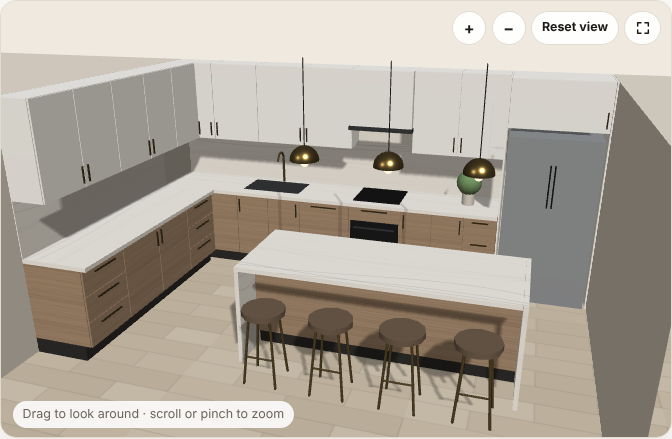
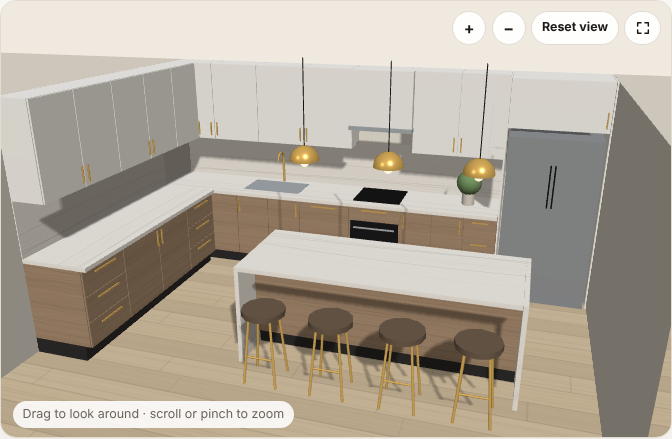
Designer: locked, dated quote snapshot link and full design details in the quote email; wall and floor colour choices (white tiles in laundry and vanity)
Claude-Session: https://claude.ai/code/session_01HEw6Y8Yuo87gmqRPwDFR2d

diff --git a/js/designer.js b/js/designer.js
@@ -51,20 +51,39 @@
     door: { flat: 'flat panel doors', shaker: 'shaker doors', fingerpull: 'fingerpull doors' },
     splash: { subway: 'white subway tile splashback', stone: 'matching stone splashback', glass: 'smoked glass splashback' }
   };
-  var lists = { cabinet: CABINET, bench: BENCH, handle: HANDLE };
+  /* room colours, so people can see the joinery against walls and floors like their own */
+  var WALLS = [
+    { val: 'warm-white', name: 'Warm white', fill: '#efe9e0' },
+    { val: 'white', name: 'Bright white', fill: '#f7f7f4' },
+    { val: 'greige', name: 'Greige', fill: '#d8cfc2' },
+    { val: 'sage', name: 'Soft sage', fill: '#c8cfbe' },
+    { val: 'blue', name: 'Pale blue', fill: '#cdd7dc' },
+    { val: 'charcoal', name: 'Charcoal', fill: '#55534f' },
+    { val: 'tile-white', name: 'White tiles', fill: '#f4f4f1', tile: true }
+  ];
+  var FLOORS = [
+    { val: 'oak-light', name: 'Light oak timber', fill: '#d8c3a2', kind: 'timber' },
+    { val: 'oak-mid', name: 'Mid oak timber', fill: '#b68c60', kind: 'timber' },
+    { val: 'walnut', name: 'Dark timber', fill: '#6f5038', kind: 'timber' },
+    { val: 'stone', name: 'Beige stone tiles', fill: '#d6c8b3', kind: 'tile' },
+    { val: 'tile-white', name: 'White tiles', fill: '#ecebe7', kind: 'tile' },
+    { val: 'tile-grey', name: 'Grey tiles', fill: '#b6b4af', kind: 'tile' },
+    { val: 'concrete', name: 'Polished concrete', fill: '#a9a7a2', kind: 'concrete' }
+  ];
+  var lists = { cabinet: CABINET, bench: BENCH, handle: HANDLE, wall: WALLS, floor: FLOORS };
 
   /* starting design follows what is most asked for in 2026: L-shape with an island, timber-look
      base cupboards with white overheads, flat doors, white stone benchtop and splashback */
   var ks = { shape: 'l', wall: 4.2, side: 2.4, bases: 0, island: 'on', islandLen: 2.4, pantry: 'off', fridge: 'on', dishwasher: 'on', overheads: 'full',
-    door: 'flat', base: 'p-prime-oak', upper: 'p-classic-white', bench: 'cs-empira-white', splash: 'stone', handle: 'brass' };
+    door: 'flat', base: 'p-prime-oak', upper: 'p-classic-white', bench: 'cs-empira-white', splash: 'stone', handle: 'brass', wallC: 'warm-white', floorC: 'oak-light' };
   var ws = { wtype: 'builtin', wdoors: 'hinged', door: 'flat', finish: 'p-prime-oak', internals: 'balanced', light: 'on', handle: 'black',
-    width: 2.4, height: 2.4, doorCount: 0, panelCount: 0, bsec: [], showInside: 'off', wshape: 'u', wwidth: 3.2, wside: 1.6, wcount: {}, wsec: {} };
+    width: 2.4, height: 2.4, doorCount: 0, panelCount: 0, bsec: [], showInside: 'off', wshape: 'u', wwidth: 3.2, wside: 1.6, wcount: {}, wsec: {}, wallC: 'warm-white', floorC: 'oak-light' };
   /* laundry: sage green shaker base, white overheads, stacked washer and dryer with a broom cupboard */
   var ls = { lwall: 2.4, machines: 'stacked', broom: 'on', overheads: 'full',
-    door: 'shaker', base: 'p-oasis', upper: 'p-classic-white', bench: 'cs-empira-white', splash: 'subway', handle: 'brass' };
+    door: 'shaker', base: 'p-oasis', upper: 'p-classic-white', bench: 'cs-empira-white', splash: 'subway', handle: 'brass', wallC: 'tile-white', floorC: 'tile-white' };
   /* vanity: wall-hung oak with a white stone top, above-counter basin and a round mirror */
   var vs = { vwall: 1.2, mount: 'wall', basins: 'single', vfront: 'drawers', mirror: 'round', tower: 'off',
-    door: 'flat', base: 'p-prime-oak', upper: 'p-prime-oak', bench: 'cs-empira-white', handle: 'brass' };
+    door: 'flat', base: 'p-prime-oak', upper: 'p-prime-oak', bench: 'cs-empira-white', handle: 'brass', wallC: 'tile-white', floorC: 'tile-white' };
   var STATES = { kitchen: ks, laundry: ls, vanity: vs, wardrobe: ws };
   var mode = 'kitchen';
   var state = ks;
@@ -93,7 +112,7 @@
   root.querySelectorAll('[data-swatches]').forEach(function (row) {
     var kind = row.dataset.swatches;
     var list = lists[kind];
-    if (kind === 'handle') {
+    if (kind === 'handle' || kind === 'wall' || kind === 'floor') {
       lists[kind].forEach(function (o) { row.appendChild(makeSwatch(o)); });
       return;
     }
@@ -199,6 +218,15 @@
     '<linearGradient id="steelg" x1="0" x2="1" y1="0" y2="0"><stop offset="0" stop-color="#b9bdc1"/><stop offset=".5" stop-color="#d9dcdf"/><stop offset="1" stop-color="#aeb2b6"/></linearGradient>' +
     '<linearGradient id="led" x1="0" x2="0" y1="0" y2="1"><stop offset="0" stop-color="#ffe7b0" stop-opacity=".9"/><stop offset="1" stop-color="#ffe7b0" stop-opacity="0"/></linearGradient>' +
     '<linearGradient id="floor" x1="0" x2="0" y1="0" y2="1"><stop offset="0" stop-color="#d8cdbd"/><stop offset="1" stop-color="#c7b9a5"/></linearGradient>';
+  function roomOf(st) { return { wall: find(WALLS, st.wallC), floor: find(FLOORS, st.floorC) }; }
+  function roomFill(SW, SH, floorY) {
+    var r = roomOf(state), w = r.wall, f = r.floor, out = '';
+    out += '<defs><pattern id="wallTile" width="40" height="40" patternUnits="userSpaceOnUse"><rect width="40" height="40" fill="' + w.fill + '"/><path d="M0 .5H40M.5 0V40" stroke="#dcdad4" stroke-width="1"/></pattern>' +
+      '<pattern id="floorPat" width="' + (f.kind === 'timber' ? 120 : 60) + '" height="' + (f.kind === 'timber' ? 14 : 18) + '" patternUnits="userSpaceOnUse"><rect width="120" height="18" fill="' + f.fill + '"/>' +
+      (f.kind === 'concrete' ? '' : '<path d="M0 .5H120' + (f.kind === 'timber' ? 'M60.5 0V14' : 'M.5 0V18') + '" stroke="' + shade(f.fill, 0.86) + '" stroke-width="1"/>') + '</pattern></defs>';
+    out += rect(0, 0, SW, floorY, w.tile ? 'url(#wallTile)' : w.fill) + rect(0, floorY, SW, SH - floorY, 'url(#floorPat)');
+    return out + '<rect x="0" y="' + floorY + '" width="' + SW + '" height="' + (SH - floorY) + '" fill="url(#floor)" opacity=".25"/>';
+  }
   function svgOpen(W, H) {
     return '<svg viewBox="0 0 ' + W + ' ' + H + '" xmlns="http://www.w3.org/2000/svg" preserveAspectRatio="xMidYMid meet"><defs>' + DEFS_COMMON + woodDefs() + veinDefs() + '</defs>';
   }
@@ -248,7 +276,7 @@
     function X(v) { return x0 + v * k; }
     function Y(v) { return floorY - v * k; }
     var svg = svgOpen(SW, SH);
-    svg += rect(0, 0, SW, floorY, '#efe9e0') + rect(0, floorY, SW, SH - floorY, 'url(#floor)');
+    svg += roomFill(SW, SH, floorY);
     var metal = state.handle === 'brass' ? '#c4a15a' : state.handle === 'steel' ? '#a9adb1' : '#2a2a2a';
     var bTop = DIM.BASE_TOP + DIM.BENCH_T;
     // splashback and benchtop
@@ -404,7 +432,7 @@
     function X(v) { return x0 + v * k; }
     function Y(v) { return floorY - v * k; }
     var svg = svgOpen(SW, SH);
-    svg += rect(0, 0, SW, floorY, '#efe9e0') + rect(0, floorY, SW, SH - floorY, 'url(#floor)');
+    svg += roomFill(SW, SH, floorY);
     svg += '<ellipse cx="' + (x0 + W * k / 2) + '" cy="' + (floorY + 6) + '" rx="' + (W * k / 2 + 30) + '" ry="9" fill="rgba(0,0,0,.1)"/>';
     var inside = m.kind === 'walkin' || ws.showInside === 'on';
     svg += rect(X(0) - 6, Y(H) - 6, W * k + 12, H * k + 6, m.kind === 'walkin' ? c.fill : '#e4ddd2', m.kind === 'walkin' ? ' stroke="' + c.edge + '"' : '');
@@ -615,7 +643,85 @@
       if (Math.abs(D2.UP_D - 0.34) > 0.005 && state.overheads === 'full') x.push(mm(D2.UP_D) + ' mm deep overheads');
       if (Math.abs(D2.FRIDGE_W - 0.92) > 0.005 && state.fridge === 'on') x.push(mm(D2.FRIDGE_W) + ' mm fridge space');
     }
-    return x.length ? t.replace(/\.$/, '') + '. Custom sizes: ' + x.join(', ') + '.' : t;
+    t = x.length ? t.replace(/\.$/, '') + '. Custom sizes: ' + x.join(', ') + '.' : t;
+    var rm = roomOf(state);
+    return t + ' Shown with ' + rm.wall.name.toLowerCase() + ' walls and ' + rm.floor.name.toLowerCase() + ' floor.';
+  }
+
+  /* every choice, one per line, for the quote email */
+  function designDetails() {
+    if (!model) build();
+    var m = model, st = state, D2 = L.dims, out = [];
+    function row(k, v) { if (v !== '' && v != null) out.push(k + ': ' + v); }
+    function on(v) { return v === 'on' ? 'Yes' : 'No'; }
+    function board(v) { return cname(find(CABINET, v)); }
+    function bench() { return cname(find(BENCH, st.bench)); }
+    var DOOR = { flat: 'Flat panel', shaker: 'Shaker', fingerpull: 'Fingerpull' };
+    var hdl = st.door === 'fingerpull' ? 'Fingerpull (no handles)' : find(HANDLE, st.handle).name;
+    row('Designing', { kitchen: 'Kitchen', laundry: 'Laundry', vanity: 'Vanity', wardrobe: 'Wardrobe' }[mode]);
+    if (mode === 'kitchen') {
+      row('Shape', { straight: 'Straight', l: 'L-shape', u: 'U-shape', galley: 'Galley' }[m.shape]);
+      row('Back wall', mm(m.sizes.wall) + ' mm');
+      if (m.shape === 'l' || m.shape === 'u') row('Side walls', mm(m.sizes.side) + ' mm');
+      row('Base cupboards on back wall', m.counts.bases);
+      row('Island', m.island ? 'Yes, ' + mm(m.island.len) + ' mm' : 'No');
+      row('Pantry', on(st.pantry));
+      row('Fridge space', st.fridge === 'on' ? 'Yes, ' + mm(D2.FRIDGE_W) + ' mm wide' : 'No');
+      row('Dishwasher', st.dishwasher === 'off' ? 'No' : 'Yes');
+    }
+    if (mode === 'laundry') {
+      row('Laundry wall', mm(m.sizes.lwall) + ' mm');
+      row('Washer & dryer', { stacked: 'Stacked tower', side: 'Side by side under bench', washer: 'Washer only under bench' }[st.machines]);
+      row('Broom cupboard', on(st.broom));
+    }
+    if (mode === 'kitchen' || mode === 'laundry') {
+      row('Overheads', { full: 'Cupboards', shelves: 'Open shelves', none: 'None' }[st.overheads]);
+      row('Door style', DOOR[st.door]);
+      row('Base colour', board(st.base));
+      row('Overhead colour', board(st.upper));
+      row('Benchtop', bench());
+      row('Splashback', LABELS.splash[st.splash].charAt(0).toUpperCase() + LABELS.splash[st.splash].slice(1));
+      row('Handles', hdl);
+      row('Top of cupboards', mm(D2.UP_TOP) + ' mm');
+      row('Bench height', mm(D2.BASE_TOP + D2.BENCH_T) + ' mm');
+      row('Base cupboard depth', mm(D2.BASE_D + 0.02) + ' mm');
+      if (st.overheads === 'full') row('Overhead depth', mm(D2.UP_D) + ' mm');
+    }
+    if (mode === 'vanity') {
+      row('Style', st.mount === 'floor' ? 'Floor-standing' : 'Wall-hung');
+      row('Width', mm(m.sizes.vwall) + ' mm');
+      row('Height to top', mm(D2.BASE_TOP + D2.BENCH_T) + ' mm');
+      row('Depth', mm(D2.BASE_D + 0.02) + ' mm');
+      row('Basins', m.counts.basins + ' above-counter');
+      row('Fronts', st.vfront === 'doors' ? 'Doors' : 'Drawers');
+      row('Mirror', { round: 'Round mirror', cabinet: 'Mirror shaving cabinet', none: 'None' }[st.mirror]);
+      row('Linen tower', on(st.tower));
+      row('Door style', DOOR[st.door]);
+      row('Colour', board(st.base));
+      row('Top', bench());
+      row('Handles', hdl);
+    }
+    if (mode === 'wardrobe') {
+      row('Type', st.wtype === 'walkin' ? 'Walk-in robe' : 'Built-in robe');
+      if (m.kind === 'walkin') {
+        row('Shape', { straight: 'One wall', l: 'L-shape', u: 'U-shape' }[m.shape]);
+        row('Back wall', mm(m.sizes.wwidth) + ' mm');
+        if (m.shape !== 'straight') row('Side walls', mm(m.sizes.wside) + ' mm');
+        m.runs.forEach(function (r) { row(r.label + ' sections', r.sections.map(function (k) { return L.SECTION[k]; }).join(', ')); });
+        row('LED lighting', on(st.light));
+      } else {
+        row('Size', mm(m.sizes.width) + ' wide x ' + mm(m.sizes.height) + ' high');
+        row('Doors', { hinged: 'Hinged', slidingpanel: 'Sliding panel', mirror: 'Sliding mirror' }[st.wdoors] + ', ' + m.counts.doors);
+        if (st.wdoors === 'hinged') row('Door style', DOOR[st.door]);
+        row('Sections', m.sections.wall.map(function (k) { return L.SECTION[k]; }).join(', '));
+      }
+      row('Depth', mm(D2.W_D) + ' mm');
+      row('Finish', board(st.finish));
+      row('Handles', find(HANDLE, st.handle).name);
+    }
+    var rm = roomOf(st);
+    row('Room shown with', rm.wall.name + ' walls, ' + rm.floor.name.toLowerCase() + ' floor');
+    return out.join('\n');
   }
   function summaryCore() {
     if (!model) build();
@@ -694,6 +800,7 @@
 
   var lastPickFromRandom = false;
   root.addEventListener('click', function (e) {
+    if (locked && e.target.closest('.designer-controls')) return;
     var tab = e.target.closest('.brand-tab');
     if (tab) { tab.closest('.board-picker').dataset.touched = '1'; return; }
     lastPickFromRandom = false;
@@ -718,10 +825,12 @@
     render();
   });
   root.addEventListener('input', function (e) {
+    if (locked) return;
     var t = e.target;
     if (t.dataset.size) { state[t.dataset.size] = parseFloat(t.value); render(); }
   });
   root.addEventListener('change', function (e) {
+    if (locked) return;
     var t = e.target;
     if (t.dataset.sizeMm) {
       var v = parseFloat(t.value);
@@ -790,8 +899,14 @@
     var text = 'My design: ' + summary();
     var field = document.getElementById('designField');
     if (field) field.value = text;
+    /* the link is a frozen snapshot: the whole design is written into the link itself,
+       stamped with the time, and opens read-only */
+    var sent = new Date();
+    var snap = snapshot(); snap.q = 1; snap.t = sent.getTime();
     var linkF = document.getElementById('designLinkField');
-    if (linkF) linkF.value = designLink();
+    if (linkF) linkF.value = location.origin + '/?d=' + enc(snap) + '#design';
+    var detF = document.getElementById('designDetailsField');
+    if (detF) detF.value = 'Sent ' + sent.toLocaleString('en-AU', { dateStyle: 'medium', timeStyle: 'short' }) + '\n' + designDetails();
     var list = document.getElementById('cabinetListField');
     if (list && window.JCExport) list.value = window.JCExport.csv();
     var form = document.getElementById('quoteForm');
@@ -810,7 +925,7 @@
   window.JCDesigner = {
     get mode() { return mode; },
     get state() { return state; },
-    CABINET: CABINET, BENCH: BENCH, HANDLE: HANDLE,
+    CABINET: CABINET, BENCH: BENCH, HANDLE: HANDLE, WALLS: WALLS, FLOORS: FLOORS,
     model: function () { return L.build(mode, state); }
   };
   var pane3d = document.getElementById('design3d');
@@ -898,21 +1013,44 @@
     }
     return true;
   }
-  var saveTimer = 0, restoredFrom = '';
+  var saveTimer = 0, restoredFrom = '', locked = false;
   function autosave() {
     clearTimeout(saveTimer);
+    if (locked) return;
     saveTimer = setTimeout(function () { try { localStorage.setItem(SAVE_KEY, JSON.stringify(snapshot())); } catch (e) {} }, 400);
   }
   window.JCDesigner.link = designLink;
   var qs = new URLSearchParams(location.search);
-  if (qs.get('d')) { try { if (restore(dec(qs.get('d')))) restoredFrom = 'link'; } catch (e) {} }
+  var snapAt = 0;
+  if (qs.get('d')) { try { var so = dec(qs.get('d')); if (restore(so)) { restoredFrom = so.q ? 'quote' : 'link'; snapAt = so.t || 0; } } catch (e) {} }
   else if (!qs.get('look') && !qs.get('design')) {
     try { if (restore(JSON.parse(localStorage.getItem(SAVE_KEY) || 'null'))) restoredFrom = 'device'; } catch (e) {}
+  }
+  /* a quote snapshot opens locked: what the customer sent, dated, and nobody can change it.
+     "Edit a copy" unlocks a copy to play with; the emailed link itself never changes. */
+  if (restoredFrom === 'quote') {
+    locked = true;
+    root.classList.add('is-locked');
+    var ban = document.createElement('div');
+    ban.className = 'snap-banner';
+    ban.setAttribute('role', 'status');
+    var when = snapAt ? new Date(snapAt).toLocaleString('en-AU', { weekday: 'short', day: 'numeric', month: 'short', year: 'numeric', hour: 'numeric', minute: '2-digit' }) : '';
+    ban.innerHTML = '<div><strong>Quote snapshot</strong><span>' + (when ? 'Sent ' + when + '. ' : '') + 'This is exactly what was sent with the quote request, and it can\u2019t be changed.</span></div>' +
+      '<button type="button" class="btn btn-outline btn-sm" data-unlock>Edit a copy</button>';
+    var stage = root.querySelector('.designer-stage');
+    stage.insertBefore(ban, stage.firstChild);
+    ban.querySelector('[data-unlock]').addEventListener('click', function () {
+      locked = false;
+      root.classList.remove('is-locked');
+      ban.remove();
+      try { history.replaceState(null, '', location.pathname + '#design'); } catch (e) {}
+      autosave();
+    });
   }
   var saveBar = document.getElementById('designSave');
   if (saveBar) {
     var note = saveBar.querySelector('.save-note');
-    if (restoredFrom) note.classList.add('show');
+    if (restoredFrom && restoredFrom !== 'quote') note.classList.add('show');
     if (restoredFrom === 'device') note.textContent = 'Welcome back. We reopened your last design.';
     else if (restoredFrom === 'link') note.textContent = 'Opened a saved design. Any changes save on this device.';
     saveBar.addEventListener('click', function (e) {

diff --git a/js/designer3d.js b/js/designer3d.js
@@ -226,11 +226,63 @@
     }
   }
 
+  /* walls and floor the customer picked (Your walls / Your floor) */
+  function roomMats() {
+    var st = D.state, w = find(D.WALLS || [{ val: 'x', fill: '#efe9e0' }], st.wallC), f = find(D.FLOORS || [{ val: 'x', fill: '#d6c8b3', kind: 'tile' }], st.floorC);
+    M.wall = mat('wall-' + w.val, function () {
+      if (!w.tile) return std(w.fill, 0.95);
+      var t = canvasTex(256, 256, function (g, cw, ch) {
+        g.fillStyle = w.fill; g.fillRect(0, 0, cw, ch);
+        g.strokeStyle = '#d9d7d1'; g.lineWidth = 3;
+        for (var i = 0; i <= 2; i++) { g.beginPath(); g.moveTo(0, i * 128); g.lineTo(cw, i * 128); g.stroke(); g.beginPath(); g.moveTo(i * 128, 0); g.lineTo(i * 128, ch); g.stroke(); }
+      });
+      t.wrapS = t.wrapT = T.RepeatWrapping;
+      t.repeat.set(14 / 0.6, 4);
+      return std(0xffffff, 0.35, 0, { map: t });
+    });
+    M.sidewall = mat('side-' + w.val, function () {
+      if (!w.tile) return std(shade(w.fill, 0.96), 0.95);
+      var m2 = M.wall.clone(); m2.map = M.wall.map.clone(); m2.map.needsUpdate = true; m2.color = new T.Color(0xf2f2f2); return m2;
+    });
+    M.floor = mat('floor-' + f.val, function () {
+      var t = canvasTex(512, 512, function (g, cw, ch) {
+        g.fillStyle = f.fill; g.fillRect(0, 0, cw, ch);
+        if (f.kind === 'timber') {
+          for (var r = 0; r < 8; r++) {
+            var off = (r * 211) % 512;
+            g.fillStyle = shade(f.fill, r % 3 === 0 ? 0.95 : r % 3 === 1 ? 1.03 : 1);
+            g.fillRect(0, r * 64, cw, 64);
+            for (var q = 0; q < 14; q++) {
+              var gy = r * 64 + 4 + Math.random() * 56;
+              g.strokeStyle = Math.random() < 0.6 ? shade(f.fill, 0.86) : shade(f.fill, 1.08);
+              g.globalAlpha = 0.25 + Math.random() * 0.3; g.lineWidth = 0.6 + Math.random();
+              g.beginPath(); g.moveTo(0, gy);
+              for (var gx = 0; gx <= cw; gx += 16) g.lineTo(gx, gy + Math.sin(gx / (30 + q * 7) + q) * 1.2);
+              g.stroke();
+            }
+            g.globalAlpha = 1;
+            g.strokeStyle = 'rgba(0,0,0,.12)'; g.lineWidth = 2;
+            g.strokeRect(-2, r * 64, cw + 4, 64);
+            g.beginPath(); g.moveTo(off, r * 64); g.lineTo(off, r * 64 + 64); g.stroke();
+          }
+        } else if (f.kind === 'tile') {
+          g.strokeStyle = 'rgba(0,0,0,.10)'; g.lineWidth = 3;
+          for (var i = 0; i <= 4; i++) { g.beginPath(); g.moveTo(0, i * 128); g.lineTo(cw, i * 128); g.stroke(); g.beginPath(); g.moveTo(i * 128, 0); g.lineTo(i * 128, ch); g.stroke(); }
+        } else {
+          for (var n = 0; n < 1400; n++) { g.fillStyle = 'rgba(' + (Math.random() < 0.5 ? '0,0,0' : '255,255,255') + ',' + (0.03 + Math.random() * 0.05) + ')'; g.fillRect(Math.random() * cw, Math.random() * ch, 3 + Math.random() * 6, 2 + Math.random() * 4); }
+        }
+      });
+      t.wrapS = t.wrapT = T.RepeatWrapping;
+      t.repeat.set(7, 7);
+      return std(0xffffff, f.kind === 'concrete' ? 0.55 : 0.75, 0, { map: t });
+    });
+  }
+
   function room(width, depth, height, sideWalls) {
+    roomMats();
     var floor = new T.Mesh(new T.PlaneGeometry(14, 14), M.floor);
     floor.rotation.x = -Math.PI / 2;
     floor.receiveShadow = true;
-    M.floor.map.repeat.set(7, 7);
     world.add(floor);
     var back = new T.Mesh(new T.PlaneGeometry(14, height), M.wall);
     back.position.set(0, height / 2, 0);

diff --git a/index.html b/index.html
@@ -350,6 +350,14 @@
               <h3>Handles &amp; trims</h3>
               <div class="opt-row swatches" data-swatches="handle"></div>
             </div>
+            <div class="opt-group" data-opt="wallC" data-mode="kitchen laundry vanity wardrobe">
+              <h3>Your walls</h3>
+              <div class="opt-row swatches" data-swatches="wall"></div>
+            </div>
+            <div class="opt-group" data-opt="floorC" data-mode="kitchen laundry vanity wardrobe">
+              <h3>Your floor</h3>
+              <div class="opt-row swatches" data-swatches="floor"></div>
+            </div>
             <button type="button" class="adv-toggle" id="advToggle" aria-expanded="false" aria-controls="designControls">
               <span class="adv-more">Customise sizes, cupboards &amp; more</span><span class="adv-less">Show fewer options</span>
             </button>
@@ -914,6 +922,7 @@
           <input type="hidden" name="design" id="designField" value="">
           <input type="hidden" name="cabinet_list" id="cabinetListField" value="">
           <input type="hidden" name="design_link" id="designLinkField" value="">
+          <input type="hidden" name="design_details" id="designDetailsField" value="">
           <p class="hp"><label>Leave this empty <input name="bot-field" tabindex="-1" autocomplete="off"></label></p>
 
           <div class="form-progress" aria-hidden="true">

diff --git a/css/styles.css b/css/styles.css
@@ -736,3 +736,10 @@ body.d3-locked { overflow: hidden; }
 .trade-steps span { color: var(--muted); font-size: .92rem; }
 @media (max-width: 1000px) { .trade-steps { grid-template-columns: 1fr 1fr; } }
 @media (max-width: 560px) { .trade-steps { grid-template-columns: 1fr; } }
+
+/* quote snapshot: locked, dated view of exactly what was sent */
+.snap-banner { display: flex; align-items: center; justify-content: space-between; gap: 1rem; flex-wrap: wrap; margin: 0 0 .9rem; padding: .8rem 1rem; border: 1.5px solid var(--oak); border-radius: var(--radius); background: #fbf3ea; }
+.snap-banner strong { display: block; color: var(--oak-dark); font-size: .95rem; }
+.snap-banner span { display: block; font-size: .86rem; color: var(--muted); }
+.is-locked .designer-controls { pointer-events: none; opacity: .55; }
+.is-locked .designer-actions, .is-locked .design-save { display: none !important; }
